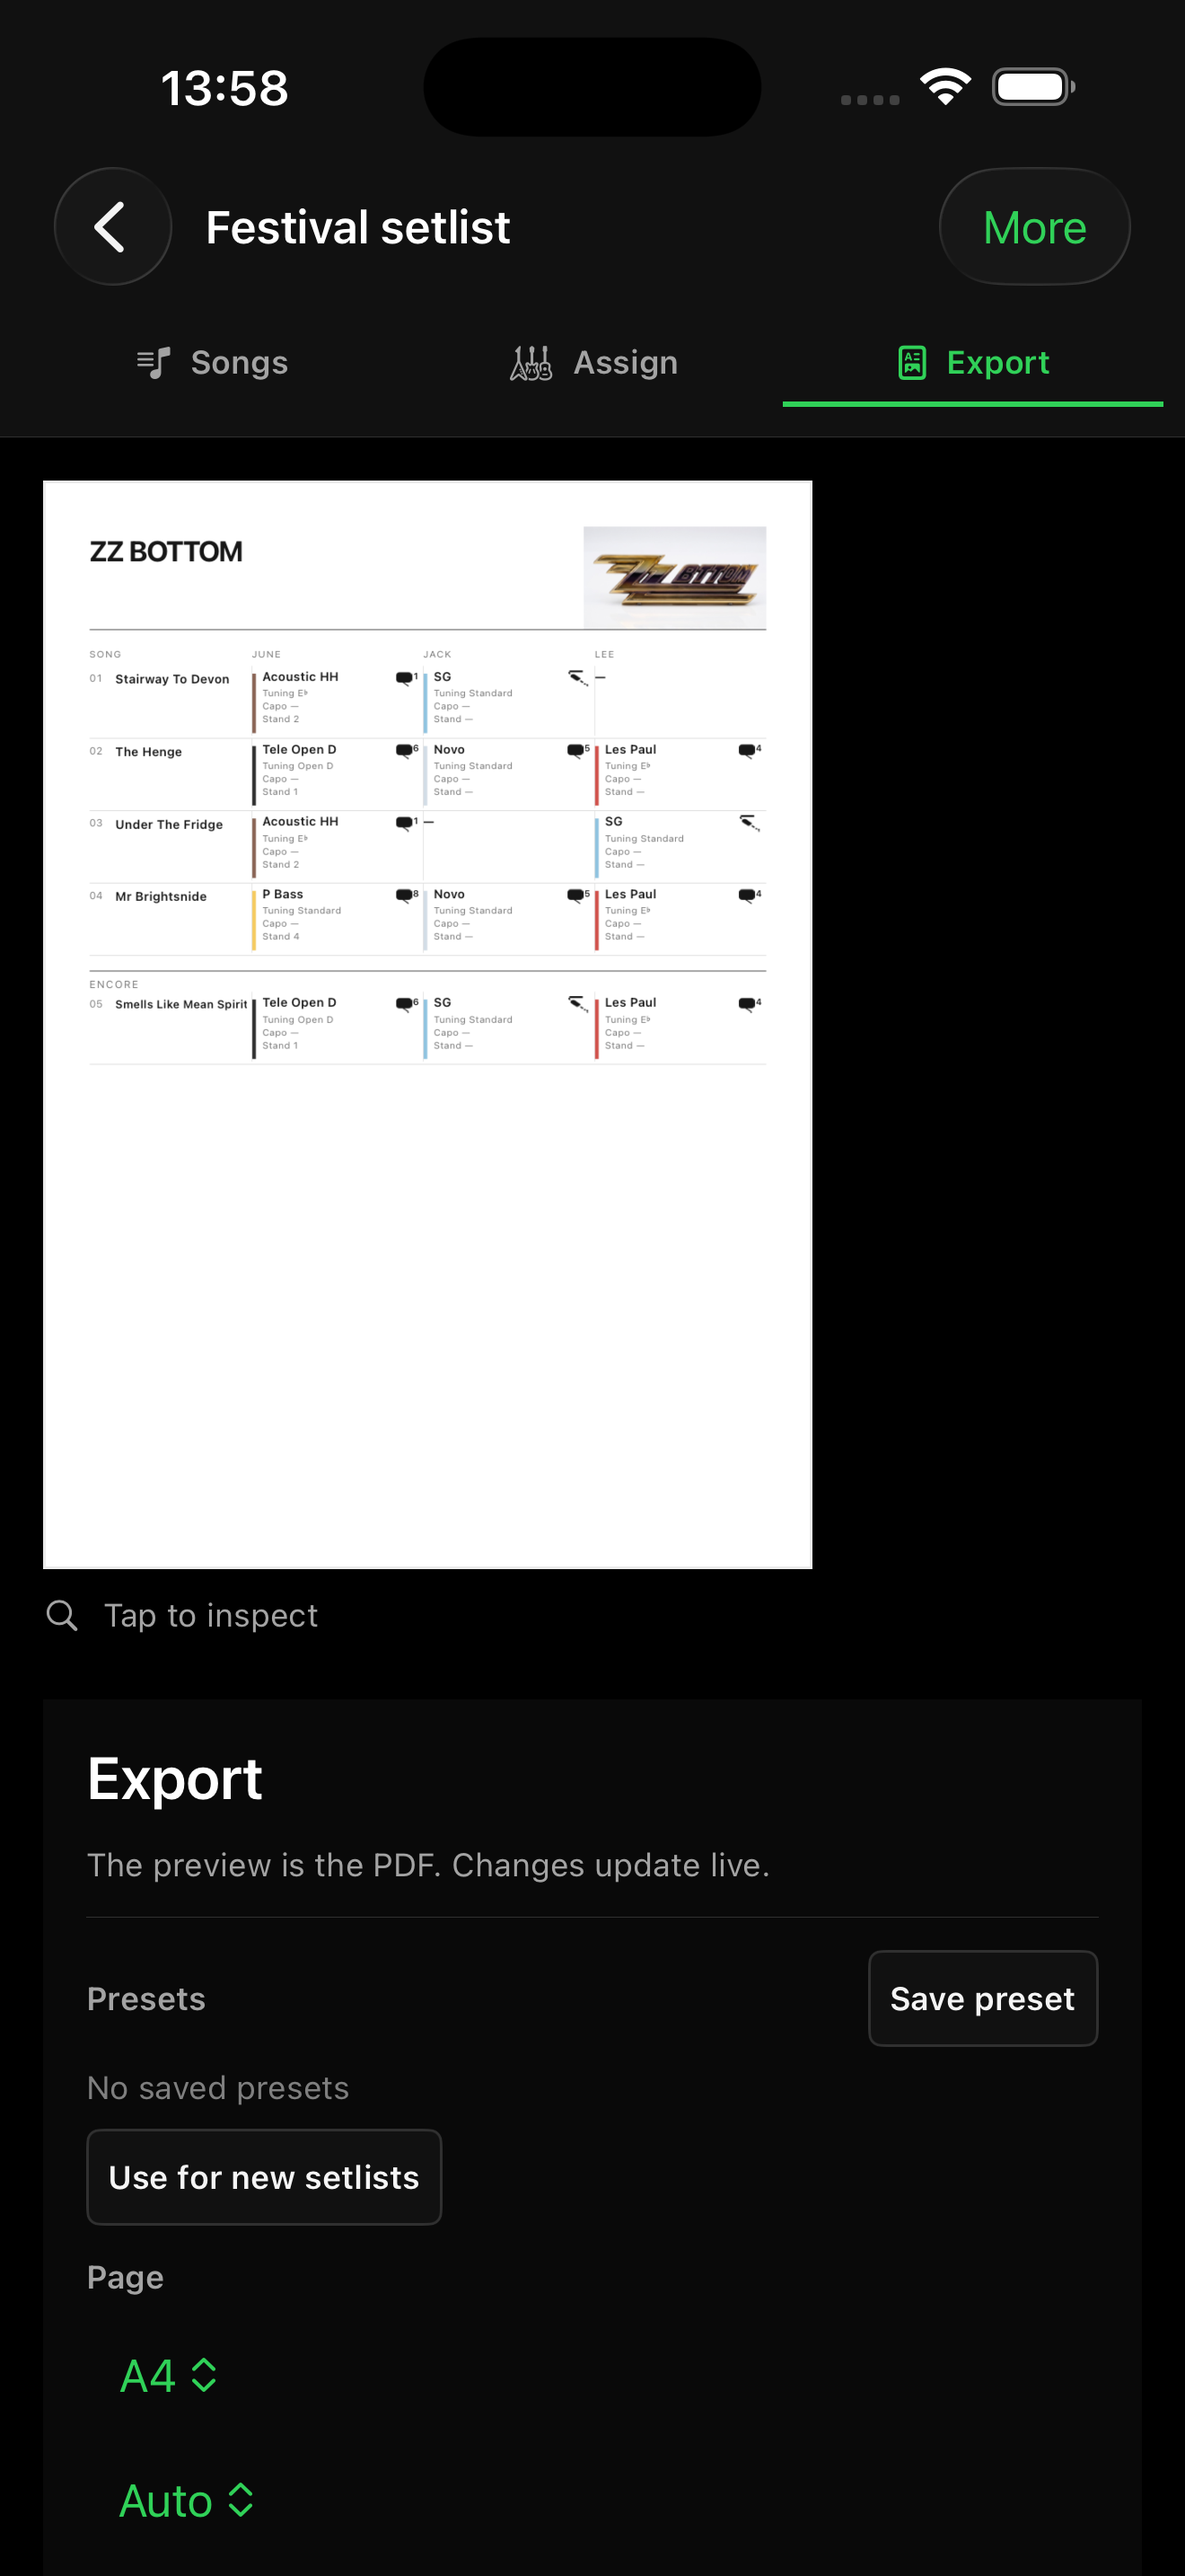
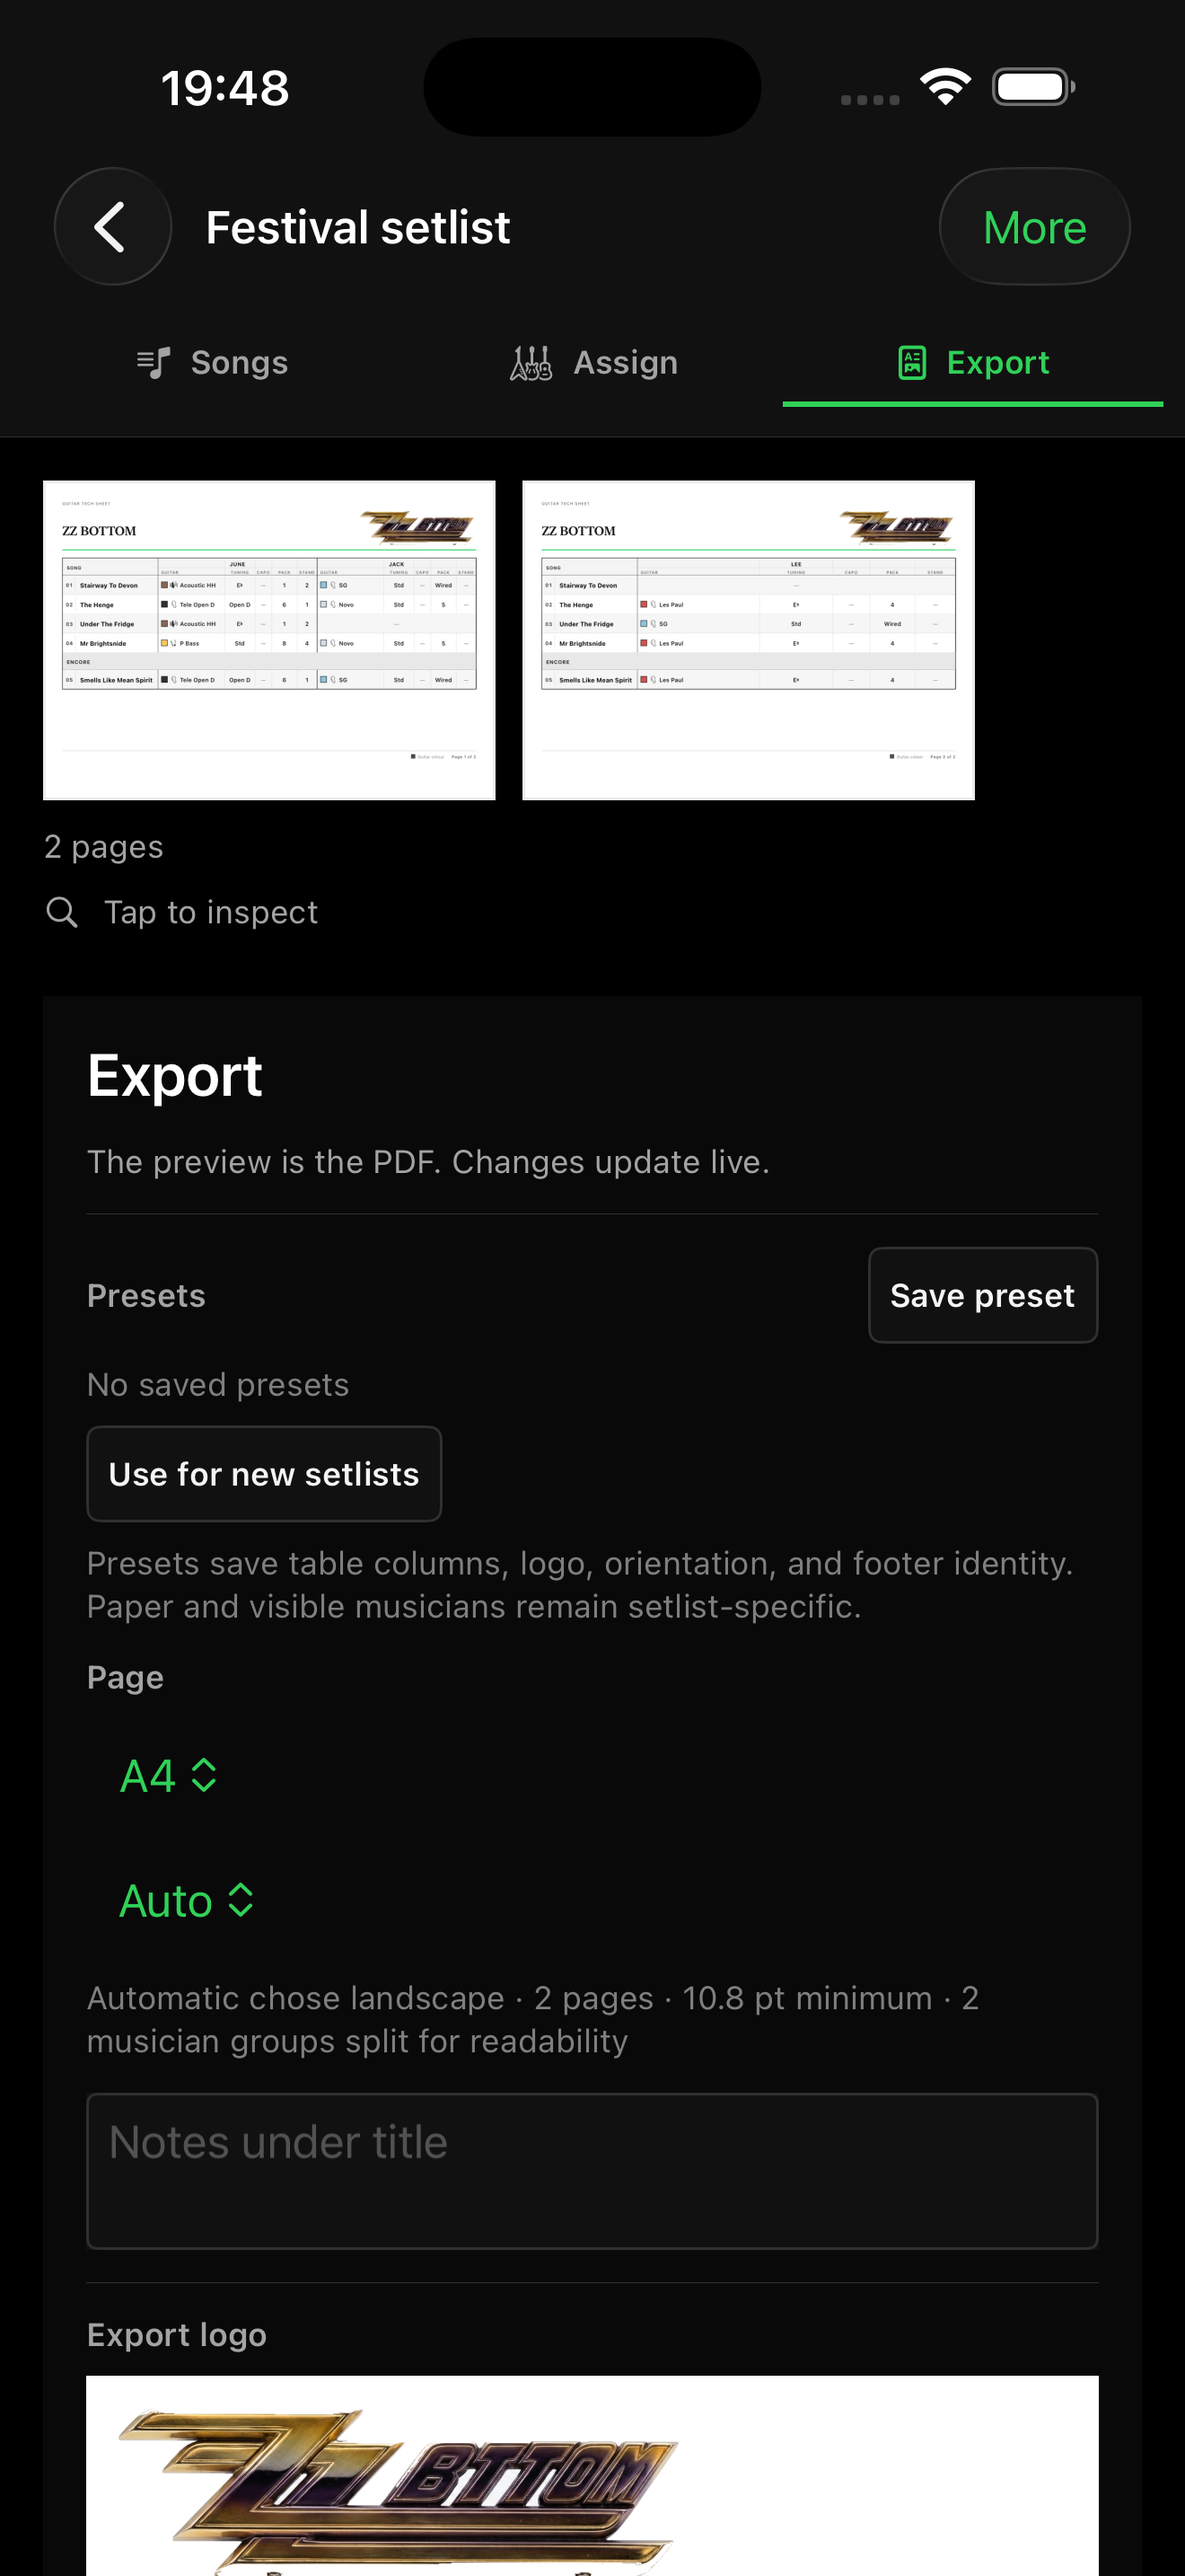
Sync marketing site with the redesigned guitar-tech PDF table (#7)
Recaptures the export and guitar-assignment screenshots and rewrites the
export section copy to describe the actual redesigned document: fixed
per-musician subcolumns, a 10pt type floor, and automatic landscape/
group-split pagination, replacing copy that still described the old
uniform-column layout. Also fixes the transparent header wordmark and
brings the README's infrastructure checklist in line with the live
DNS/HTTPS state.

diff --git a/index.html b/index.html
@@ -98,7 +98,7 @@
           <svg class="feature-icon" aria-hidden="true"><use href="/assets/lucide.svg#file-output"></use></svg>
           <span class="feature-step">03 · Export</span>
           <h3>Make The Page Crew-Ready</h3>
-          <p>Choose the useful columns, add the artist logo, preview the result, then print or save a sharp, uniform PDF.</p>
+          <p>Group every musician’s guitar, tuning, capo, pack and stand into fixed table columns, then print a sharp, pin-ready PDF.</p>
         </article>
       </div>
     </section>
@@ -181,31 +181,31 @@
     <section id="export" class="export-section section">
       <div class="section-intro">
         <p class="eyebrow">Rich, Branded Exports</p>
-        <h2>Hand The Crew A Page Worth Trusting.</h2>
-        <p>The same plan drives Show Mode and the paper backup, so the live cue and the printed sheet do not quietly drift apart.</p>
+        <h2>Pin-Ready Tables. No Guesswork.</h2>
+        <p>Every musician gets the same fixed subcolumns on every song. A hard 10-point type floor keeps the sheet readable at a distance, with automatic landscape and musician-group page splits when the table gets dense.</p>
       </div>
       <div class="export-layout">
         <div class="device-wrap">
           <div class="device device-ipad device-landscape">
             <div class="device-camera" aria-hidden="true"></div>
             <div class="device-screen">
-              <img src="/assets/ipad-export.png" width="2752" height="2064" loading="lazy" alt="Setlist Designer export controls and print preview on iPad">
+              <img src="/assets/ipad-export.png" width="2752" height="2064" loading="lazy" alt="Setlist Designer export controls and grouped guitar-tech table preview on iPad">
             </div>
           </div>
         </div>
         <div class="paper-proof">
-          <img src="/assets/export-proof.png" width="1240" height="1754" loading="lazy" alt="A finished branded setlist PDF with uniform columns">
+          <img src="/assets/export-proof.png" width="1683" height="1190" loading="lazy" alt="A finished landscape guitar-tech PDF with grouped musician subcolumns">
           <div class="paper-caption">
             <svg class="feature-icon" aria-hidden="true"><use href="/assets/lucide.svg#columns-3"></use></svg>
-            <div><strong>Uniform By Design</strong><span>A4 or Letter · Portrait or automatic landscape</span></div>
+            <div><strong>Readable By Design</strong><span>10 pt minimum · Automatic landscape · Smart group splits</span></div>
           </div>
         </div>
       </div>
       <div class="export-features">
-        <article><svg class="feature-icon" aria-hidden="true"><use href="/assets/lucide.svg#layout-template"></use></svg><h3>Saved Templates</h3><p>Keep the same column and header treatment across a whole tour.</p></article>
+        <article><svg class="feature-icon" aria-hidden="true"><use href="/assets/lucide.svg#layout-template"></use></svg><h3>Grouped Tech Tables</h3><p>Guitar, tuning, capo, pack, stand, gauge and switcher stay in fixed subcolumns for each musician.</p></article>
         <article><svg class="feature-icon" aria-hidden="true"><use href="/assets/lucide.svg#image"></use></svg><h3>Artist Branding</h3><p>Use the artist name, a round logo, or both—plus a version line under the header.</p></article>
         <article><svg class="feature-icon" aria-hidden="true"><use href="/assets/lucide.svg#notebook-pen"></use></svg><h3>Useful Notes</h3><p>Print per-song details when the crew needs them. Keep private guitar notes out of the export.</p></article>
-        <article><svg class="feature-icon" aria-hidden="true"><use href="/assets/lucide.svg#file-output"></use></svg><h3>Print Or PDF</h3><p>Preview before output, with readable type and columns that stay aligned from top to bottom.</p></article>
+        <article><svg class="feature-icon" aria-hidden="true"><use href="/assets/lucide.svg#file-output"></use></svg><h3>Distance-Readable</h3><p>Preview before output. Type never drops below 10 points; dense musician groups split across repeated table pages.</p></article>
       </div>
     </section>
 

diff --git a/store-art/iphone.html b/store-art/iphone.html
@@ -204,10 +204,10 @@
       },
       export: {
         kicker: "Rich, branded exports",
-        headline: "A Crew Sheet<br><span class=\"accent\">Built To Be Used.</span>",
-        subhead: "Choose the useful columns, add the artist logo and print a sharp PDF.",
+        headline: "Pin-Ready Tables.<br><span class=\"accent\">No Guesswork.</span>",
+        subhead: "Fixed musician subcolumns and a hard 10-point minimum keep every rig cue readable.",
         image: "/assets/iphone-export.png",
-        pill: "A4 · Letter · auto landscape"
+        pill: "10 pt minimum · smart page splits"
       }
     };
     const key = new URLSearchParams(location.search).get("shot") || "build";

diff --git a/store-art/ipad.html b/store-art/ipad.html
@@ -159,10 +159,10 @@
       },
       export: {
         kicker: "Rich, Branded Exports",
-        headline: "Print A Page <span>The Crew Can Trust.</span>",
-        subhead: "Choose the useful columns, add the artist logo, then print A4, Letter or a sharp PDF.",
+        headline: "Pin-Ready Tables. <span>Every Rig.</span>",
+        subhead: "Grouped musician columns keep guitars, tunings, capos, packs and stand cues readable at a distance.",
         image: "/assets/ipad-export.png",
-        pill: "Uniform Columns · Auto Landscape"
+        pill: "10 Pt Minimum · Smart Page Splits"
       }
     };
     const key = new URLSearchParams(location.search).get("shot") || "show";
